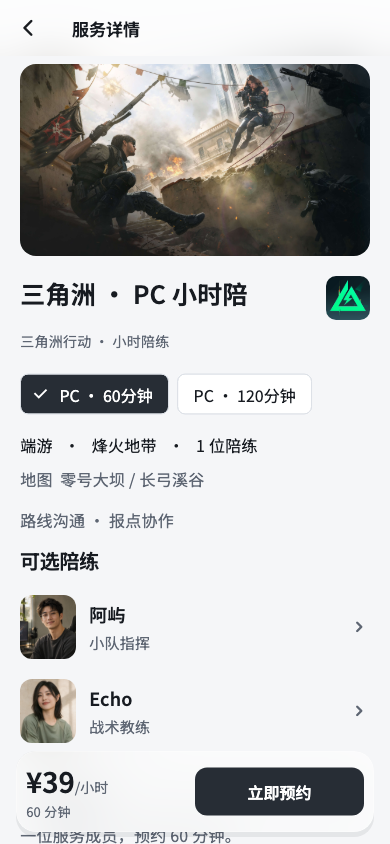
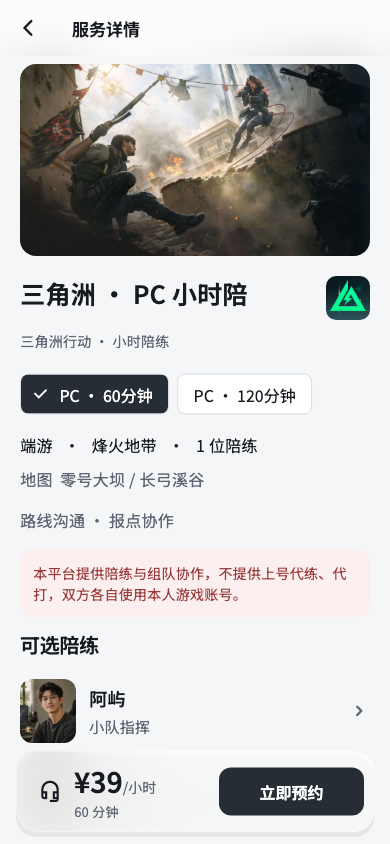
feat(app): 陪练可约状态、详情规则提示条与客服入口，强化原生玻璃质感
- Flutter 陪练卡加可约 pill；详情加不代练代打规则条；底栏补客服入口
- GlassSurface 半透明白卡/亮边/柔和投影，强化 iOS 原生玻璃层次
- 演示陪练与后端 seed 同步 status=available
- 小程序陪练可约标签、详情规则条与客服圆钮；刷新 24 张 golden 基准
- 不造假收藏/销量/原价/会员等级等后端无模型入口

diff --git a/apps/miniprogram/utils/page.js b/apps/miniprogram/utils/page.js
@@ -6,7 +6,7 @@ function time(value){const d=new Date(Date.parse(value)+8*3600000);return pad(d.
 function datetime(value){return value?date(value)+' '+time(value):'';}
 function money(cents){return (cents/100).toFixed(2).replace(/\.00$/,'');}
 function service(s){const platform={PC:'端游',mobile:'手游'},type={hourly:'小时陪',escort:'护航',review:'复盘'},unit={hour:'小时',session:'次',target:'套餐'};const priceLabel=(s.variants&&s.variants.length)?money(Math.min.apply(null,s.variants.map(v=>v.priceCents))):money(s.priceCents);return Object.assign({},s,{price:money(s.priceCents),fromPrice:priceLabel,platformLabel:platform[s.platform]||'',typeLabel:type[s.serviceType]||s.category,unitLabel:s.billingUnit==='hour'&&s.durationMinutes!==60?s.durationMinutes+'分钟':unit[s.billingUnit]||'次',facts:[platform[s.platform],s.gameMode,s.teamSize?s.teamSize+' 位成员':''].filter(Boolean).join(' · ')});}
-function player(p){const fictional=api.config.mode==='demo'?{p1:'/assets/demo/player-yu.webp',p2:'/assets/demo/player-bei.webp'}:{};return Object.assign({},p,{image:p.avatarUrl||fictional[p.id]||'',initials:p.initials||p.name.slice(0,1)});}
+function player(p){const fictional=api.config.mode==='demo'?{p1:'/assets/demo/player-yu.webp',p2:'/assets/demo/player-bei.webp'}:{};return Object.assign({},p,{image:p.avatarUrl||fictional[p.id]||'',initials:p.initials||p.name.slice(0,1),available:p.status==='available'});}
 function order(o){const state=o.fulfillmentStatus||o.status,pay={unpaid:'未付款',pending:'等待支付确认',paid:'已付款',refund_pending:'退款处理中',refunded:'已退款'};return Object.assign({},o,{price:money(o.priceCents),income:money(o.memberCents||0),statusLabel:labels[state]||state,time:datetime(o.scheduledAt),acceptTime:datetime(o.acceptBy),canCancel:['awaiting_payment','awaiting_assignment','awaiting_acceptance','scheduled'].includes(state)&&['unpaid','pending'].includes(o.paymentStatus),canPay:!o.demo&&o.priceCents>0&&state==='awaiting_payment'&&['unpaid','pending'].includes(o.paymentStatus),canConfirm:state==='awaiting_confirmation',canDispute:['scheduled','in_progress','awaiting_confirmation','completed'].includes(state)&&!o.dispute,paymentLabel:o.demo?'演示，不扣款':pay[o.paymentStatus]||'待核实',events:(o.events||[]).map(event=>Object.assign({},event,{time:datetime(event.at)}))});}
 function createPage(definition){const base={loading:false,error:'',authRequired:false,skeletonKind:'list',skeletonRows:[1,2,3],demo:api.config.mode==='demo',themeStyle:'--primary:'+((api.config.brand||{}).primaryColor||'#272D35')};return Object.assign({login(){api.openLogin();},onShow(){if(this.data.authRequired&&api.session()&&this.load)this.load();},navigate(e){const url=e.currentTarget.dataset.url;if(url)wx.navigateTo({url});},tab(e){wx.switchTab({url:e.currentTarget.dataset.url});},retry(){if(this.load)this.load();},async run(task){this.setData({loading:true,error:'',authRequired:false});try{await task();}catch(e){this.setData({error:e.message,authRequired:e.code==='AUTH_REQUIRED'});}finally{this.setData({loading:false});}},onPullDownRefresh(){Promise.resolve(this.load()).finally(()=>wx.stopPullDownRefresh());}},definition,{data:Object.assign(base,definition.data||{})});}
 module.exports={api,createPage,money,service,player,order,date,time,datetime};

diff --git a/apps/mobile/lib/discover.dart b/apps/mobile/lib/discover.dart
@@ -593,6 +593,27 @@ class RosterRow extends StatelessWidget {
                           ),
                         ),
                       ),
+                      if (player['status'] == 'available') ...[
+                        const SizedBox(width: 8),
+                        Container(
+                          padding: const EdgeInsets.symmetric(
+                            horizontal: 9,
+                            vertical: 3,
+                          ),
+                          decoration: BoxDecoration(
+                            color: const Color(0xFFE9F3EC),
+                            borderRadius: BorderRadius.circular(8),
+                          ),
+                          child: const Text(
+                            '可约',
+                            style: TextStyle(
+                              fontSize: 12,
+                              fontWeight: FontWeight.w600,
+                              color: Color(0xFF2E7D4F),
+                            ),
+                          ),
+                        ),
+                      ],
                       const Icon(
                         Icons.chevron_right_rounded,
                         color: muted,
@@ -747,6 +768,15 @@ class _ServicePageState extends State<ServicePage> {
       title: '服务详情',
       bottom: Row(
         children: [
+          IconButton(
+            tooltip: '联系俱乐部',
+            onPressed: () => textSheet(
+              context,
+              '联系俱乐部',
+              '${repo.club['supportContact'] ?? '请通过运营方公示渠道联系。'}',
+            ),
+            icon: const Icon(Icons.headset_mic_outlined, size: 23),
+          ),
           Expanded(
             child: Column(
               crossAxisAlignment: CrossAxisAlignment.start,
@@ -891,6 +921,18 @@ class _ServicePageState extends State<ServicePage> {
               ),
             ),
           ],
+          Container(
+            margin: const EdgeInsets.only(top: 16),
+            padding: const EdgeInsets.all(13),
+            decoration: BoxDecoration(
+              color: const Color(0xFFFBEFEF),
+              borderRadius: BorderRadius.circular(12),
+            ),
+            child: const Text(
+              '本平台提供陪练与组队协作，不提供上号代练、代打，双方各自使用本人游戏账号。',
+              style: TextStyle(fontSize: 14, color: Color(0xFF9A3A3A), height: 1.5),
+            ),
+          ),
           SectionTitle('可选陪练'),
           if (players.isEmpty)
             const Text('暂无陪练', style: TextStyle(color: muted))

diff --git a/apps/miniprogram/pages/service/service.js b/apps/miniprogram/pages/service/service.js
@@ -1,2 +1,2 @@
 const {api,createPage,service,player}=require('../../utils/page');
-Page(createPage({data:{skeletonKind:'detail',service:{},selected:{},players:[],variantId:''},onLoad(o){this.id=o.id||'s1';this.load();},load(){return this.run(async()=>{const s=await api.get('/services/'+encodeURIComponent(this.id)),p=await api.get('/players');this.setData({service:service(s),players:p.filter(x=>x.games.includes(s.game)).map(player),variantId:s.variants&&s.variants.length?s.variants[0].id:''});this.select();});},choose(e){this.setData({variantId:e.currentTarget.dataset.id});this.select();},select(){const s=this.data.service,v=(s.variants||[]).find(v=>v.id===this.data.variantId);this.setData({selected:service(Object.assign({},s,v||{},{title:s.title,variantTitle:v?v.title:''}))});},book(){wx.navigateTo({url:'/pages/booking/booking?serviceId='+this.id+(this.data.variantId?'&variantId='+this.data.variantId:'')});}}));
+Page(createPage({data:{skeletonKind:'detail',service:{},selected:{},players:[],variantId:''},onLoad(o){this.id=o.id||'s1';this.load();},contact(){const contact=(api.config.brand&&api.config.brand.supportContact)||'请通过运营方公示渠道联系。';wx.showModal({title:'联系俱乐部',content:contact,showCancel:false,confirmText:'知道了'});},load(){return this.run(async()=>{const s=await api.get('/services/'+encodeURIComponent(this.id)),p=await api.get('/players');this.setData({service:service(s),players:p.filter(x=>x.games.includes(s.game)).map(player),variantId:s.variants&&s.variants.length?s.variants[0].id:''});this.select();});},choose(e){this.setData({variantId:e.currentTarget.dataset.id});this.select();},select(){const s=this.data.service,v=(s.variants||[]).find(v=>v.id===this.data.variantId);this.setData({selected:service(Object.assign({},s,v||{},{title:s.title,variantTitle:v?v.title:''}))});},book(){wx.navigateTo({url:'/pages/booking/booking?serviceId='+this.id+(this.data.variantId?'&variantId='+this.data.variantId:'')});}}));

diff --git a/apps/mobile/lib/ui.dart b/apps/mobile/lib/ui.dart
@@ -201,10 +201,19 @@ class GlassSurface extends StatelessWidget {
           !appleChrome(context);
       final surface = DecoratedBox(
         decoration: BoxDecoration(
-          color: Colors.white.withValues(alpha: opaque ? 1 : .74),
+          color: Colors.white.withValues(alpha: opaque ? 1 : .72),
           borderRadius: BorderRadius.circular(radius),
           border: border
-              ? Border.all(color: Colors.white.withValues(alpha: .9), width: .5)
+              ? Border.all(color: Colors.white.withValues(alpha: .95), width: .5)
+              : null,
+          boxShadow: border && !opaque
+              ? [
+                  BoxShadow(
+                    color: ink.withValues(alpha: .05),
+                    blurRadius: 18,
+                    offset: const Offset(0, 6),
+                  ),
+                ]
               : null,
         ),
         child: Material(type: MaterialType.transparency, child: child),
